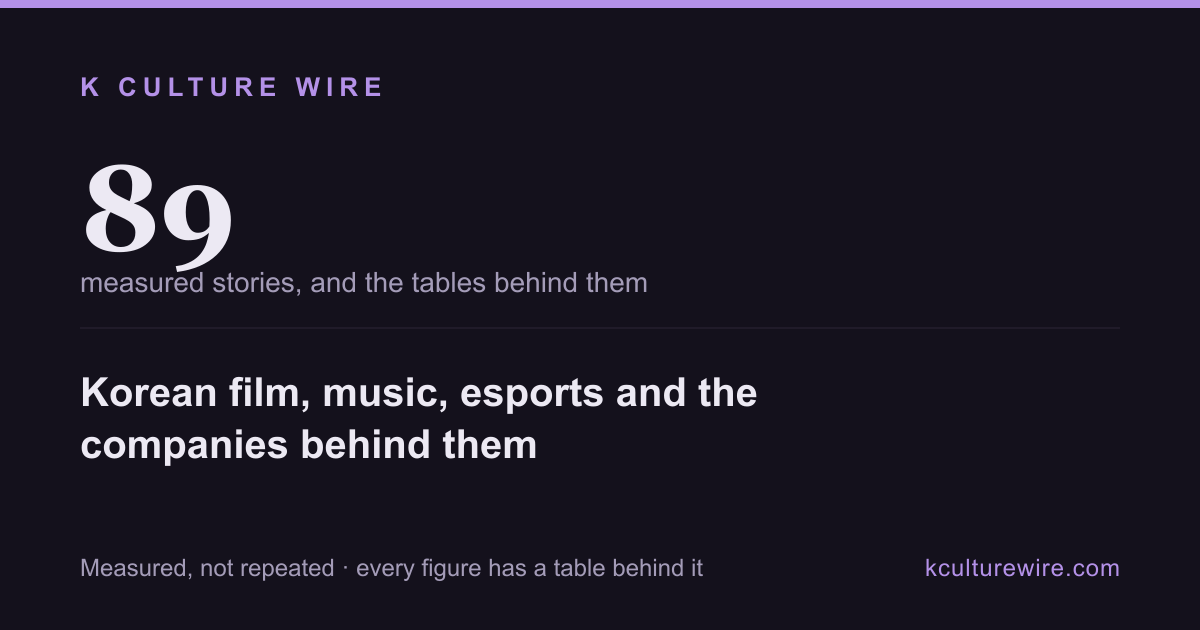
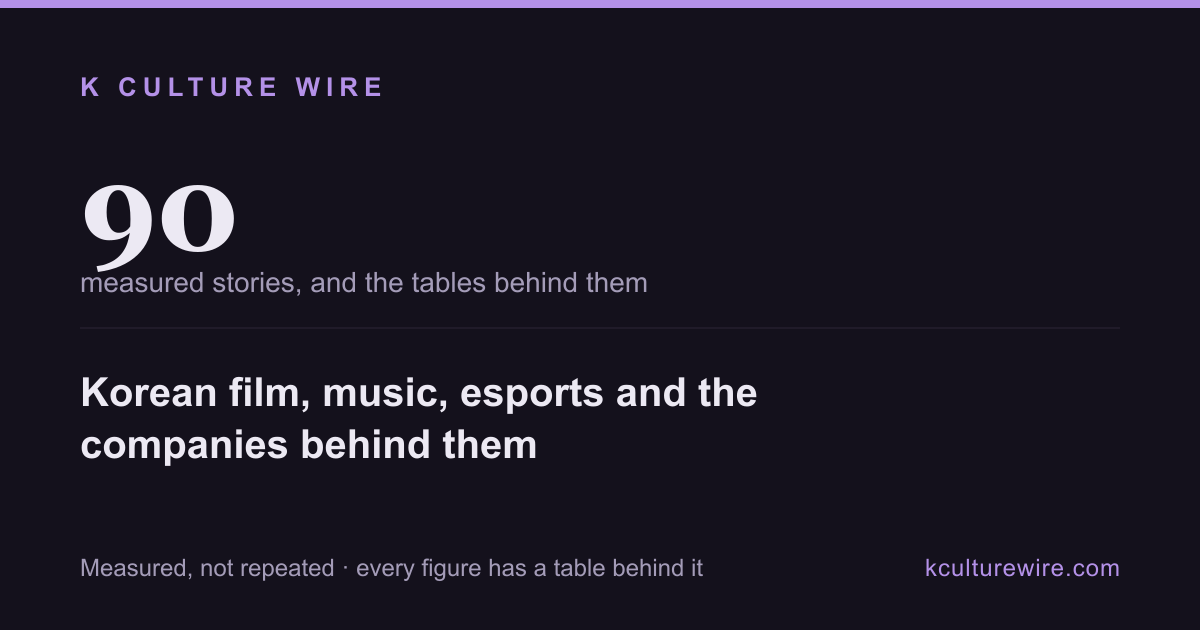
[5번] 90편 — 12월에 알아보고 1월에 난다. 그런데 요점은 봉우리가 아니라 바닥이다
89편이 「읽는 곳 ↔ 가는 곳」을 못 이었다. 두 자가 너무 멀었다.
⭐ 그 사이에 「알아보는 것」이 있다 — 공항·지하철·제주 문서를 여는 사람은
  배우 이름을 찾는 사람보다 발걸음에 가깝다.

  알아봄  봉우리 December · 바닥 June · 1.61배
  비행    봉우리 January  · 바닥 June · 1.38배

⛔ 「12월에 알아보고 1월에 간다」로 쓰지 않았다
  한 달 차이는 우연일 수도, 두 자가 각자 제 계절을 따르는 것일 수도 있다.
  독자가 제일 먼저 할 읽기라서 **기사 한가운데서 그것을 직접 부정했다.**
  ⭐ 요점은 바닥이다 — 둘 다 6월이다. 원인 이야기 없이도 두 자가 만나는 자리다.

⛔ 상관계수를 안 냈다 — 스물세 달이면 계절 하나로 커진다. 실제보다 확실해 보인다.
⛔ 항공의 「아시아」는 동남아가 아니다(인도·중앙아시아가 같은 칸). 기사에 적었다.
⚠ 열둘로 접으면 달마다 표본이 둘, 7월은 하나다. **표에 「Years folded」 칸을 넣었다.**
⛔ 네 판 모두 잰 문서만 썼다(4/10).

공유 카드는 손으로 골랐다 — 자동이 글머리에서 수를 못 찾았다.
「June」을 골랐다. 이 기사의 요점이 수가 아니라 그 달이기 때문이다.

기사의 수 28개 전부 자료와 대조 · 검색채비 0건 · 한국어 0건 · 상투어 0

Changed region(s): [[0.0617, 0.2413, 0.2158, 0.4524]]

diff --git a/src/pages/wikitip/sitemap.xml.ts b/src/pages/wikitip/sitemap.xml.ts
@@ -290,6 +290,9 @@ export const GET: APIRoute = async () => {
     /* 89편째 기사의 표. 2026-08-15 — 사장님 관광 자료 지시. 재려다 못 쟀고, 못 잰 까닭을 냈다.
        ⛔ 서울 스물다섯 중 열여섯 구에 집계된 유료 관광지가 하나도 없다 */
     { path: '/read-vs-visited', priority: '0.9', changefreq: 'weekly' },
+    /* 90편째 기사의 표. 2026-08-15 — 사장님 항공 통계 지시. 알아보는 달과 나는 달.
+       ⭐ 요점은 봉우리가 아니라 바닥이 둘 다 6월이라는 쪽이다 */
+    { path: '/look-vs-fly', priority: '0.9', changefreq: 'weekly' },
     /* 84편째 기사의 표. 2026-08-14 — 말레이시아만 다르다. 사람은 8%인데 브랜드는 23% */
     { path: '/malaysia', priority: '0.9', changefreq: 'weekly' },
     /* 파는 자리. 2026-08-09 12:5x — 2번 지시(B2B 손님이 올 첫 지면) */

diff --git a/content/kculturewire/december-looking-june-quiet.md b/content/kculturewire/december-looking-june-quiet.md
@@ -1,0 +1,56 @@
+---
+title: "Southeast Asia looks up a Korean trip in December. It stops looking in June"
+category: industry
+purpose: both
+dek: "Reads of Korean travel articles in four Southeast Asian Wikipedias peak in December; flights on the Asia routes peak in January. The steadier signal is the other end — both fall to their lowest point in the same month."
+pubDate: 2026-08-15
+dataAsOf: 2026-08-15T00:00:00+09:00
+author: Newsroom
+tags: ["korea", "industry", "tourism", "aviation", "seasonality"]
+pages:
+  - "/look-vs-fly"
+  - "/read-vs-visited"
+sources:
+  - org: "Wikimedia"
+    api: "Pageviews API, Indonesian, Vietnamese, Thai and Malay editions, monthly, August 2024 to June 2026"
+  - org: "KOSIS"
+    api: "International air routes by region, Korea Airports Corporation, monthly"
+draft: false
+---
+
+Last week we tried to put what Southeast Asia reads about Seoul next to where foreign visitors actually walk, and could not: the public admissions table can only be asked about five of Seoul's districts. The two rulers were too far apart.
+
+There is something in between. Someone who opens the article on Incheon airport, or the Seoul subway, or Jeju, is closer to a plane ticket than someone who opens an actor's page. So we counted those, month by month, in the four Southeast Asian Wikipedias — and set them beside the passengers who actually flew.
+
+| Month | Looking (per million) | Flying (passengers) | Years folded |
+|---|---|---|---|
+| January | 103.03 | 3,444,842 | 2 |
+| February | 97.20 | 3,160,164 | 2 |
+| March | 94.64 | 3,002,476 | 2 |
+| April | 96.42 | 2,720,659 | 2 |
+| May | 77.91 | 2,573,499 | 2 |
+| June | 71.14 | 2,496,048 | 2 |
+| July | 85.45 | 2,914,423 | 1 |
+| August | 91.11 | 3,079,330 | 2 |
+| September | 93.34 | 2,614,584 | 2 |
+| October | 92.48 | 2,928,267 | 2 |
+| November | 86.48 | 2,939,927 | 2 |
+| December | 114.44 | 3,332,406 | 2 |
+
+## The obvious reading is the weak one
+
+Looking peaks in December. Flying peaks in January. One month apart, in the order you would expect, and it is tempting to say the first produces the second.
+
+We cannot say that. We never see a single reader board a single plane. A one-month gap can be coincidence, and it can equally be two different things each following their own calendar — school holidays on one side, airline scheduling on the other.
+
+The steadier signal sits at the other end of the year. Both fall to their lowest point in the same month: June. Reading swings 1.61× across the year; flying, 1.38×. The quiet month is where the two rulers agree without any story needing to be told about cause.
+
+## What the numbers are not
+
+The air table separates Japan and China and puts every other Asian country into a single row. Indonesia, Vietnam, Thailand and Malaysia sit inside that row alongside India and Central Asia and cannot be told apart. This is not a Southeast Asia line, and no figure here says how many people flew in from any one country.
+
+We are not publishing a correlation coefficient. Over twenty-three months, a shared season alone will produce a large one, and it would look far more certain than the evidence is. The peak months and the distance between them are on the table above; the reader can see the size of the claim.
+
+Folding twenty-three months into twelve leaves two years behind most rows and one behind July. A monthly average here rests on two readings.
+
+And looking is not going. Some of these reads are homework, some are idle curiosity, and some never become a trip. What the data can show is when the looking happens — and that it stops happening in June.
